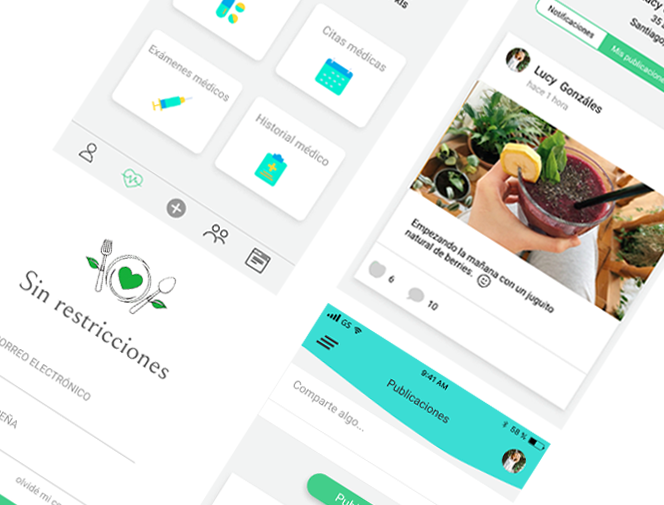
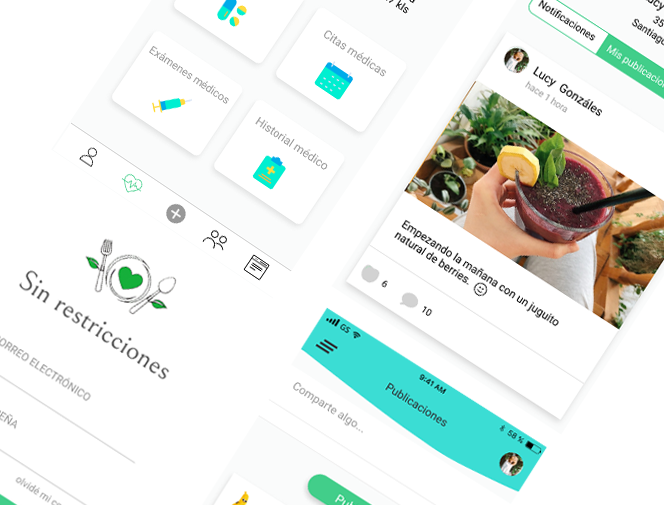
arreglo img en index red social y keeper

diff --git a/index.html b/index.html
@@ -245,7 +245,7 @@
         <div class="container">
             <div class="row">
                 <div class="col-md-7">
-                <a href="kepper.html"><img src="assets/img/kepper 2.png" href="" id="p1" alt="img-app-kepper" class="img-fluid "></a>
+                <a href="kepper.html"><img src="assets/img/keeper/kepper.png" href="" id="p1" alt="img-app-kepper" class="img-fluid "></a>
                 </div>
                 <div class="col-md-5 text-justify">
                     <h3>Re-diseño</h3>
